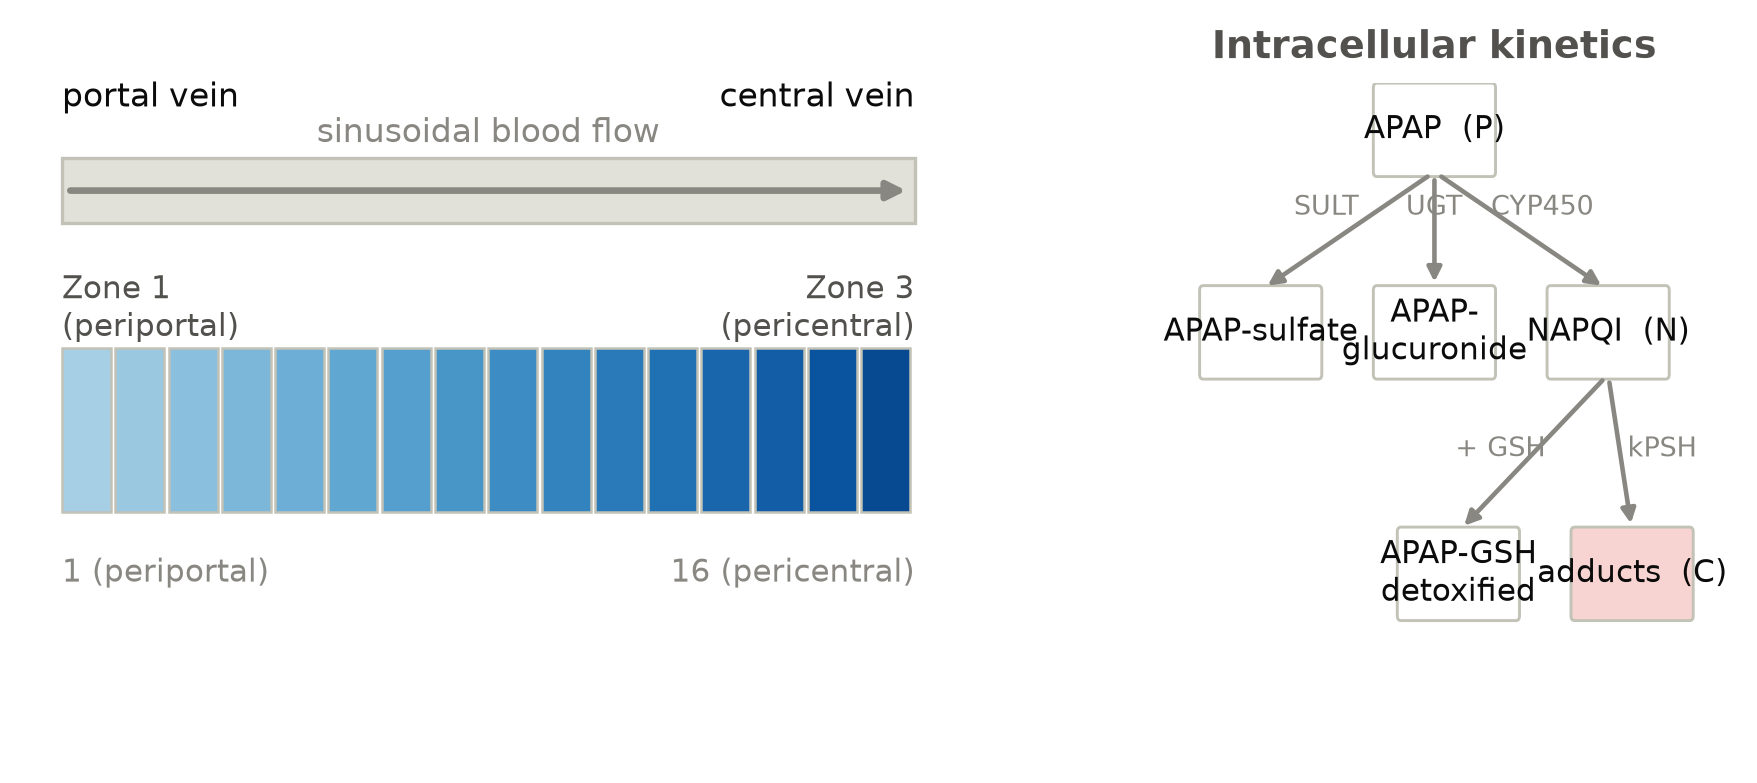
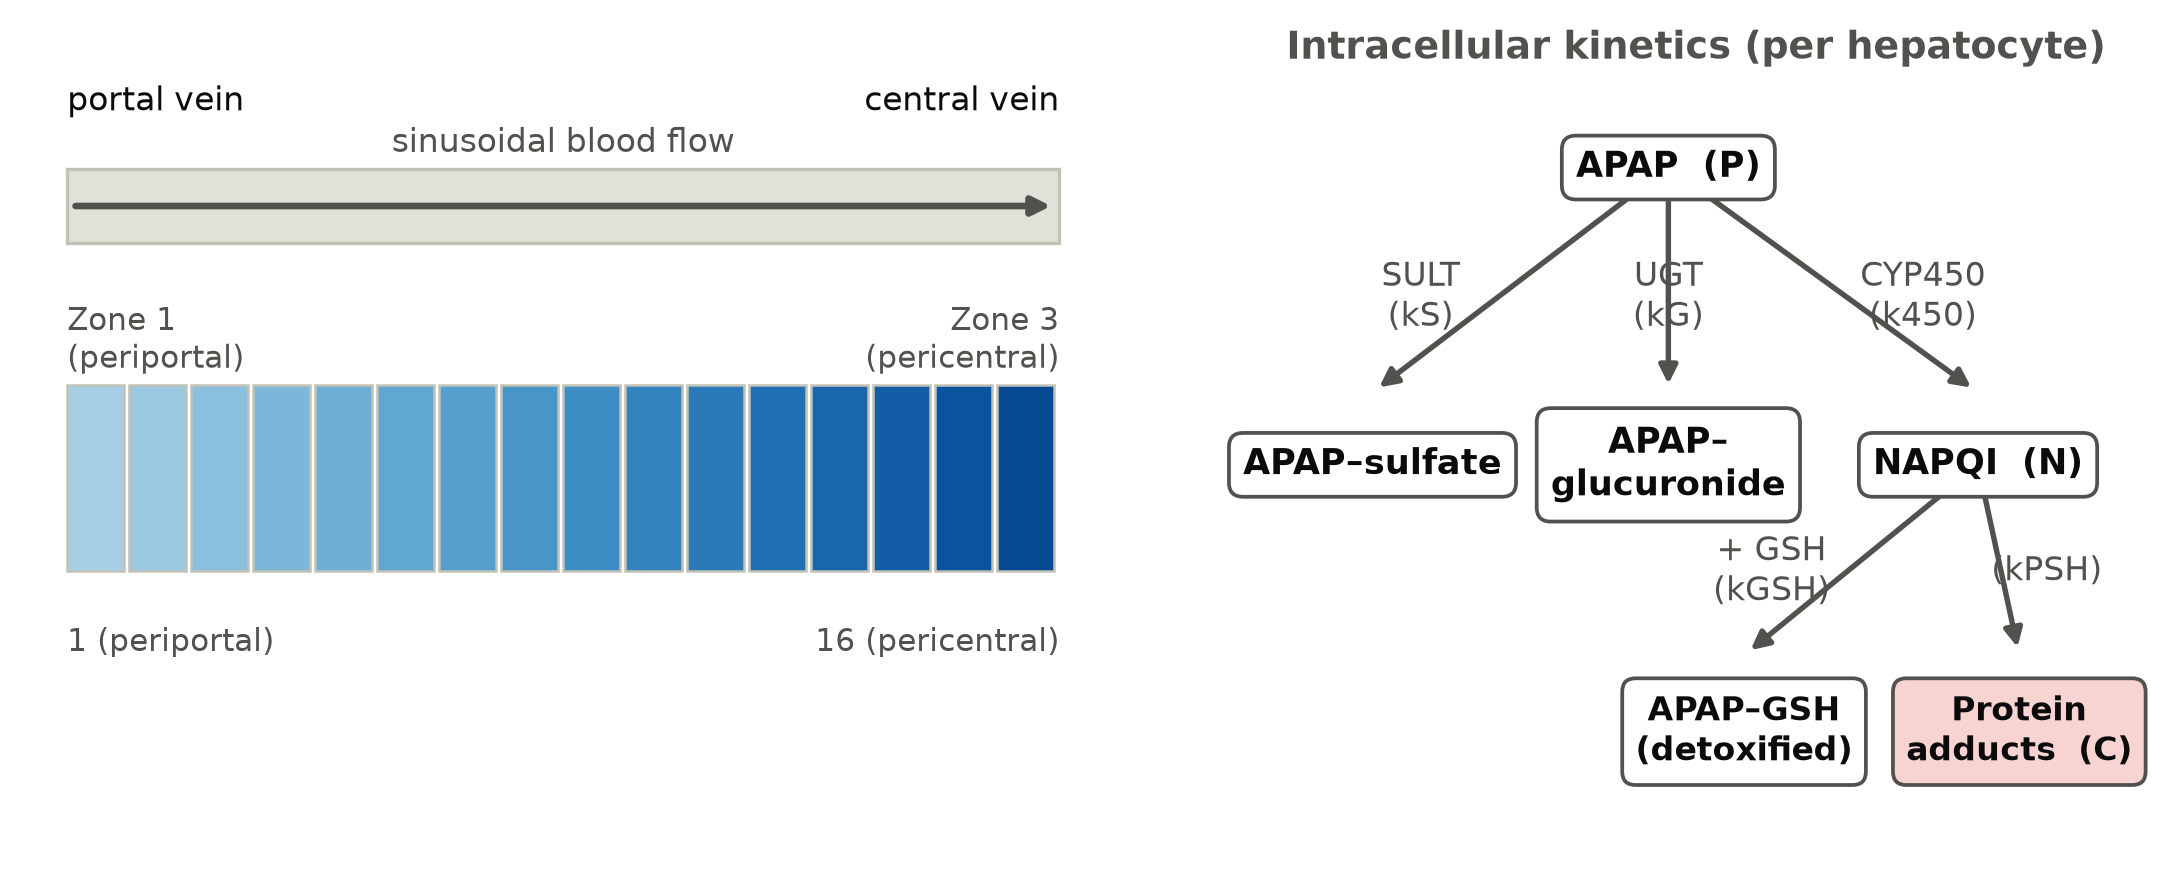
Fig 1 redesign and Methods 2.5 clarification
- Intracellular-kinetics panel: auto-sized node boxes (no species-name
  overflow or collisions), wider three-column layout, all text in
  high-contrast ink instead of grey for accessibility, bold species names,
  enzyme/rate labels on the arrows.
- Sinusoid panel labels darkened from grey to secondary ink.
- Methods 2.5: state the 80-variable count explicitly (16 hepatocytes x
  5 species).

diff --git a/code/make_figures.py b/code/make_figures.py
@@ -70,8 +70,8 @@ def ramp(mp, mc):
 
 
 def fig1_schematic():
-    fig = plt.figure(figsize=(7.2, 2.9))
-    gs = fig.add_gridspec(1, 2, width_ratios=[1.7, 1], wspace=0.30)
+    fig = plt.figure(figsize=(9.0, 3.3))
+    gs = fig.add_gridspec(1, 2, width_ratios=[1.25, 1], wspace=0.18)
 
     # --- left: sinusoid with 16 hepatocytes -------------------------------
     ax = fig.add_subplot(gs[0])
@@ -81,17 +81,17 @@ def fig1_schematic():
 
     ax.add_patch(Rectangle((0, 3.4), 16, 0.42, facecolor=GRID, edgecolor=BASELINE, lw=0.8))
     ax.annotate("", xy=(16, 3.61), xytext=(0, 3.61),
-                arrowprops=dict(arrowstyle="-|>", lw=1.6, color=MUTED))
+                arrowprops=dict(arrowstyle="-|>", lw=1.6, color=INK2))
     ax.text(8, 3.87, "sinusoidal blood flow", ha="center", va="bottom",
-            fontsize=8, color=MUTED)
+            fontsize=8, color=INK2)
 
     for i in range(N_HEPATOCYTES):
         frac = i / (N_HEPATOCYTES - 1)
         ax.add_patch(Rectangle((i, 1.55), 0.92, 1.05,
                                facecolor=plt.cm.Blues(0.35 + 0.55 * frac),
                                edgecolor=BASELINE, lw=0.6))
-    ax.text(0, 1.1, "1 (periportal)", ha="left", fontsize=7.5, color=MUTED)
-    ax.text(16, 1.1, "16 (pericentral)", ha="right", fontsize=7.5, color=MUTED)
+    ax.text(0, 1.1, "1 (periportal)", ha="left", fontsize=7.5, color=INK2)
+    ax.text(16, 1.1, "16 (pericentral)", ha="right", fontsize=7.5, color=INK2)
 
     ax.text(0, 2.85, "Zone 1\n(periportal)", ha="left", va="center", fontsize=7.5, color=INK2)
     ax.text(16, 2.85, "Zone 3\n(pericentral)", ha="right", va="center", fontsize=7.5, color=INK2)
@@ -99,45 +99,49 @@ def fig1_schematic():
     ax.text(0, 4.15, "portal vein", ha="left", fontsize=8, color=INK)
     ax.text(16, 4.15, "central vein", ha="right", fontsize=8, color=INK)
 
-    # --- right: intracellular reaction tree --------------------------------
+    # --- right: intracellular reaction scheme ------------------------------
+    # All text in high-contrast ink (no grey). Node boxes auto-size around
+    # their text (bbox annotations), so species names never overflow.
     ax = fig.add_subplot(gs[1])
-    ax.set_xlim(0, 4.5)
-    ax.set_ylim(0, 4.3)
+    ax.set_xlim(0, 12.4)
+    ax.set_ylim(0, 10)
     ax.axis("off")
 
-    def node(x, y, s, fc="white", fs=7.5):
-        ax.add_patch(FancyBboxPatch((x - 0.48, y - 0.27), 0.96, 0.54,
-                                    boxstyle="round,pad=0.03",
-                                    facecolor=fc, edgecolor=BASELINE, lw=0.7))
-        ax.text(x, y, s, ha="center", va="center", fontsize=fs, color=INK)
+    def node(x, y, s, fc="white", fs=8.5):
+        ax.text(x, y, s, ha="center", va="center", fontsize=fs,
+                color=INK, fontweight="bold", zorder=3,
+                bbox=dict(boxstyle="round,pad=0.4", facecolor=fc,
+                          edgecolor=INK2, lw=0.9))
 
     def arrow(x1, y1, x2, y2):
         ax.add_patch(FancyArrowPatch((x1, y1), (x2, y2), arrowstyle="-|>",
-                                     mutation_scale=7, lw=1.1, color=MUTED))
+                                     mutation_scale=9, lw=1.3, color=INK2,
+                                     zorder=1))
 
-    def lab(x, y, s):
-        ax.text(x, y, s, fontsize=6.5, color=MUTED, ha="center", va="center")
+    def lab(x, y, s, fs=8):
+        ax.text(x, y, s, fontsize=fs, color=INK2, ha="center", va="center",
+                zorder=2)
 
-    node(2.25, 4.0, "APAP  (P)")
-    node(0.8, 2.7, "APAP-sulfate")
-    node(2.25, 2.7, "APAP-\nglucuronide")
-    node(3.7, 2.7, "NAPQI  (N)")
-    node(2.45, 1.15, "APAP-GSH\ndetoxified")
-    node(3.9, 1.15, "adducts  (C)", fc="#f7d4d1")
+    node(5.8, 8.9, "APAP  (P)")
+    node(1.5, 5.0, "APAP–sulfate")
+    node(5.8, 5.0, "APAP–\nglucuronide")
+    node(10.3, 5.0, "NAPQI  (N)")
+    node(6.9, 1.5, "APAP–GSH\n(detoxified)", fs=8)
+    node(10.9, 1.5, "Protein\nadducts  (C)", fc="#f7d4d1", fs=8)
 
-    arrow(2.25, 3.73, 0.8, 2.97)
-    arrow(2.25, 3.73, 2.25, 2.97)
-    arrow(2.25, 3.73, 3.7, 2.97)
-    arrow(3.7, 2.43, 2.45, 1.42)
-    arrow(3.7, 2.43, 3.9, 1.42)
+    arrow(5.8, 8.9, 1.5, 5.95)
+    arrow(5.8, 8.9, 5.8, 5.95)
+    arrow(5.8, 8.9, 10.3, 5.95)
+    arrow(10.3, 5.0, 6.9, 2.5)
+    arrow(10.3, 5.0, 10.9, 2.5)
 
-    lab(1.35, 3.5, "SULT")
-    lab(2.25, 3.5, "UGT")
-    lab(3.15, 3.5, "CYP450")
-    lab(2.8, 1.95, "+ GSH")
-    lab(4.15, 1.95, "kPSH")
+    lab(2.2, 7.2, "SULT\n(kS)")
+    lab(5.8, 7.2, "UGT\n(kG)")
+    lab(9.5, 7.2, "CYP450\n(k450)")
+    lab(7.3, 3.6, "+ GSH\n(kGSH)")
+    lab(11.3, 3.6, "(kPSH)")
 
-    ax.set_title("Intracellular kinetics", fontsize=9, color=INK2, pad=6)
+    ax.set_title("Intracellular kinetics (per hepatocyte)", fontsize=9, color=INK2, pad=6)
 
     fig.savefig(FIGDIR / "fig1_schematic.png")
     plt.close(fig)

diff --git a/manuscript/Methods_Results_draft.md b/manuscript/Methods_Results_draft.md
@@ -124,7 +124,8 @@ re-ran the 4 g comparison against 27 variants of the assumed gradients (CYP
 
 ### 2.5 Numerical analysis
 
-The 80-variable ODE system was integrated with a stiff Radau solver
+The coupled ODE system — 16 hepatocytes × 5 intracellular species = 80 state
+variables — was integrated with a stiff Radau solver
 (`solve_ivp`, rtol 10⁻⁵, atol 10⁻⁸) over 3 days (the adduct peak occurs within the
 first day; results are unchanged at tighter tolerances). Reported quantities are
 the peak adduct concentration per hepatocyte (C_pk) and its pericentral value.
